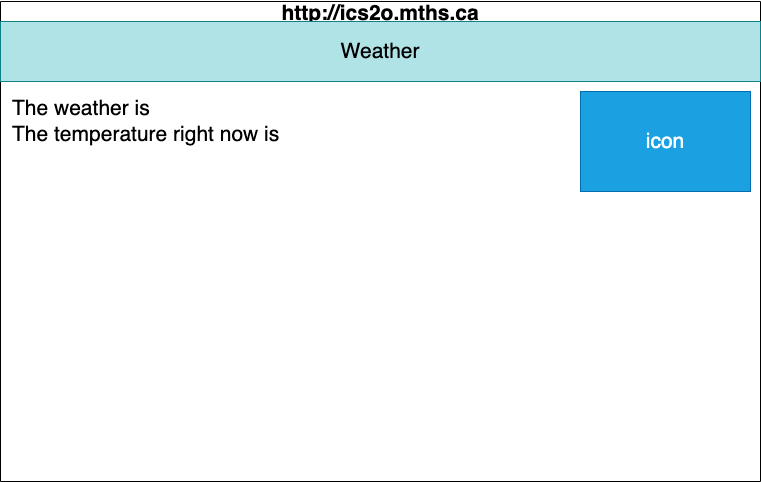
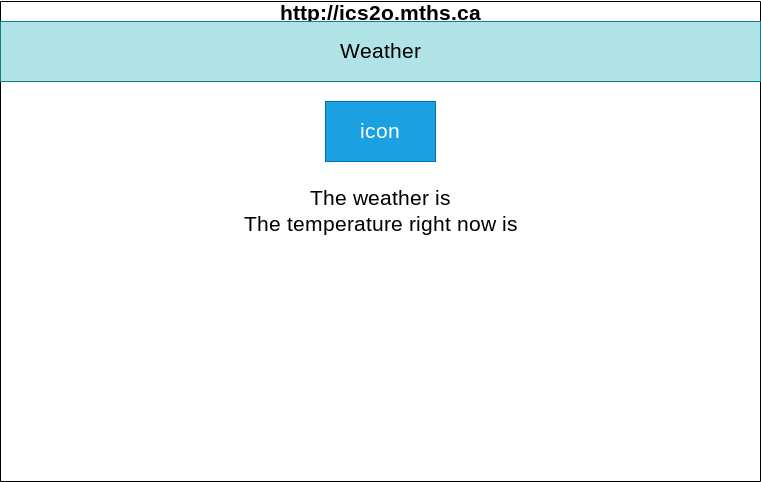
finished website

diff --git a/js/script.js b/js/script.js
@@ -13,7 +13,7 @@ const getWeather = async (URLAddress) => {
     jsonData.main.temp = Math.round(jsonData.main.temp - 273.15)
     jsonData.main.feels_like = Math.round(jsonData.main.feels_like - 273.15)
     document.getElementById("answer").innerHTML = "The weather is " + jsonData.weather[0].main + " with " + jsonData.weather[0].description + "<br /> <br />" + "The temperature right now is " + jsonData.main.temp + " feels like "+ jsonData.main.feels_like
-    document.getElementById("weather-icon").innerHTML = "<img src='https://openweathermap.org/weather-conditions#Icon-list'" + jsonData.weather[0].icon + ">"
+    document.getElementById("weather-icon").innerHTML = "<img src='http://openweathermap.org/img/wn/" + jsonData.weather[0].icon + "@2x.png'>"
   } catch (err) {
     console.log(err)
   }

diff --git a/css/style.css b/css/style.css
@@ -20,23 +20,14 @@
   padding-right: 20pt;
   padding-top: 20pt;
   font-family: Georgia, serif;
-}
-
-.page-content-instructions {
-  font-family: Georgia, "Times New Roman", Times, serif;
-  font-size: xx-large;
+  text-align: center;
 }
 
 .page-content-answer {
   color: black;
   font-family: Georgia, "Times New Roman", Times, serif;
   font-size: xx-large;
-}
-
-.weather-icon {
-  height: 250px;
-  width: auto;
-  float: right;
+  text-align: center;
 }
 
 body {
